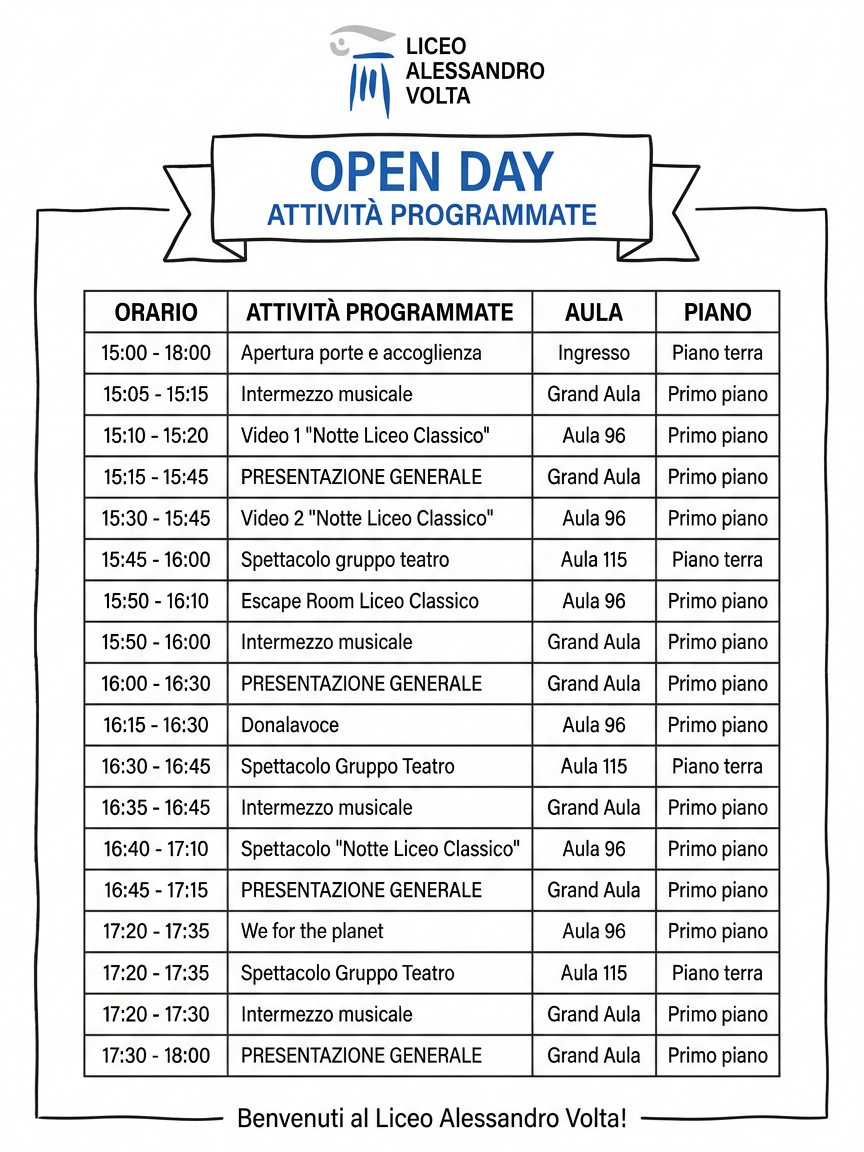
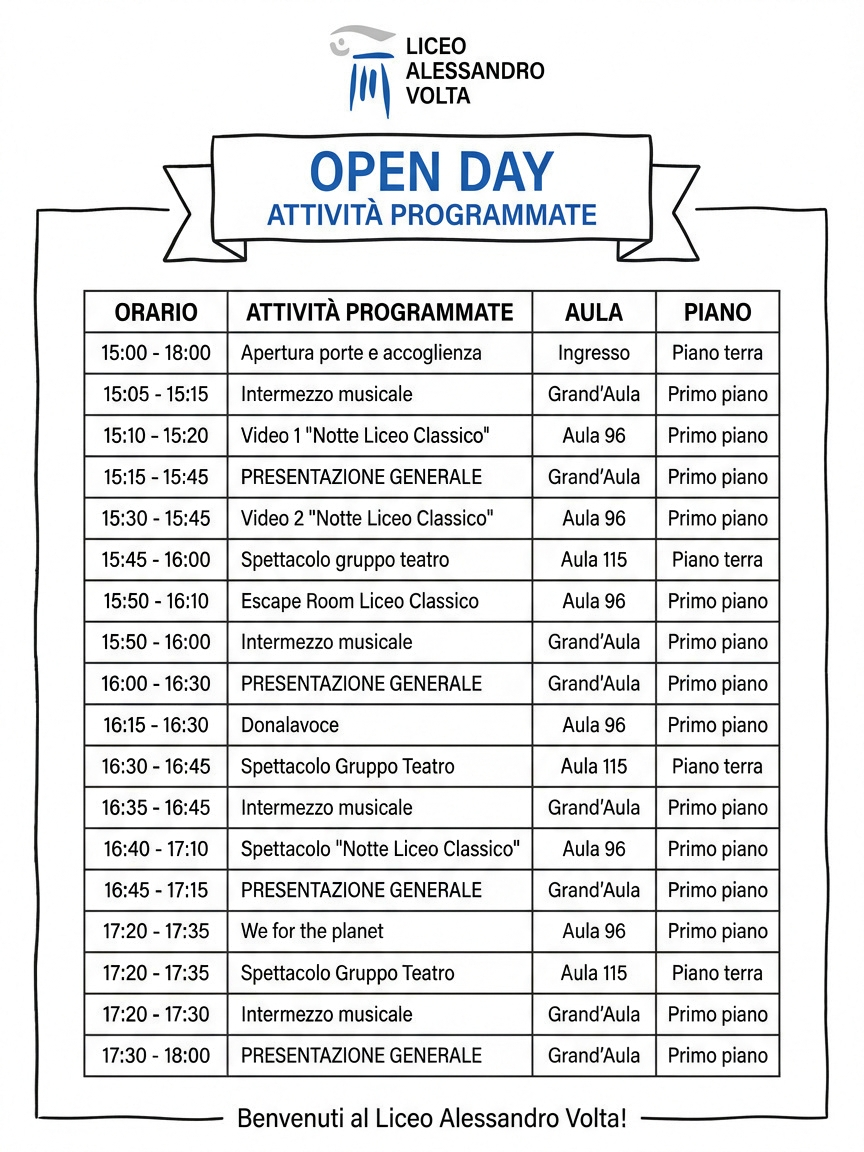
Open Day: aggiorna tabelle attività permanenti e programmate
Claude-Session: https://claude.ai/code/session_015rupjJGZNkMuZktAd33Yfn

diff --git a/public/planimetrie.html b/public/planimetrie.html
@@ -35,13 +35,13 @@
 <main>
   <section id="programma">
     <h2>Attività Programmate</h2>
-    <a href="/openday-programma.jpg?v=2"><img src="/openday-programma.jpg?v=2" alt="Programma delle attività dell'Open Day con orari, aule e piani"></a>
-    <a class="zoom" href="/openday-programma.jpg?v=2">Tocca l'immagine per ingrandirla</a>
+    <a href="/openday-programma.jpg?v=3"><img src="/openday-programma.jpg?v=3" alt="Programma delle attività dell'Open Day con orari, aule e piani"></a>
+    <a class="zoom" href="/openday-programma.jpg?v=3">Tocca l'immagine per ingrandirla</a>
   </section>
   <section id="aule">
     <h2>Attività Permanenti</h2>
-    <a href="/openday-aule-attivita.jpg?v=2"><img src="/openday-aule-attivita.jpg?v=2" alt="Elenco delle aule dell'Open Day con piano e attività"></a>
-    <a class="zoom" href="/openday-aule-attivita.jpg?v=2">Tocca l'immagine per ingrandirla</a>
+    <a href="/openday-aule-attivita.jpg?v=3"><img src="/openday-aule-attivita.jpg?v=3" alt="Elenco delle aule dell'Open Day con piano e attività"></a>
+    <a class="zoom" href="/openday-aule-attivita.jpg?v=3">Tocca l'immagine per ingrandirla</a>
   </section>
   <section id="piano-terra">
     <h2>Piano terra</h2>
